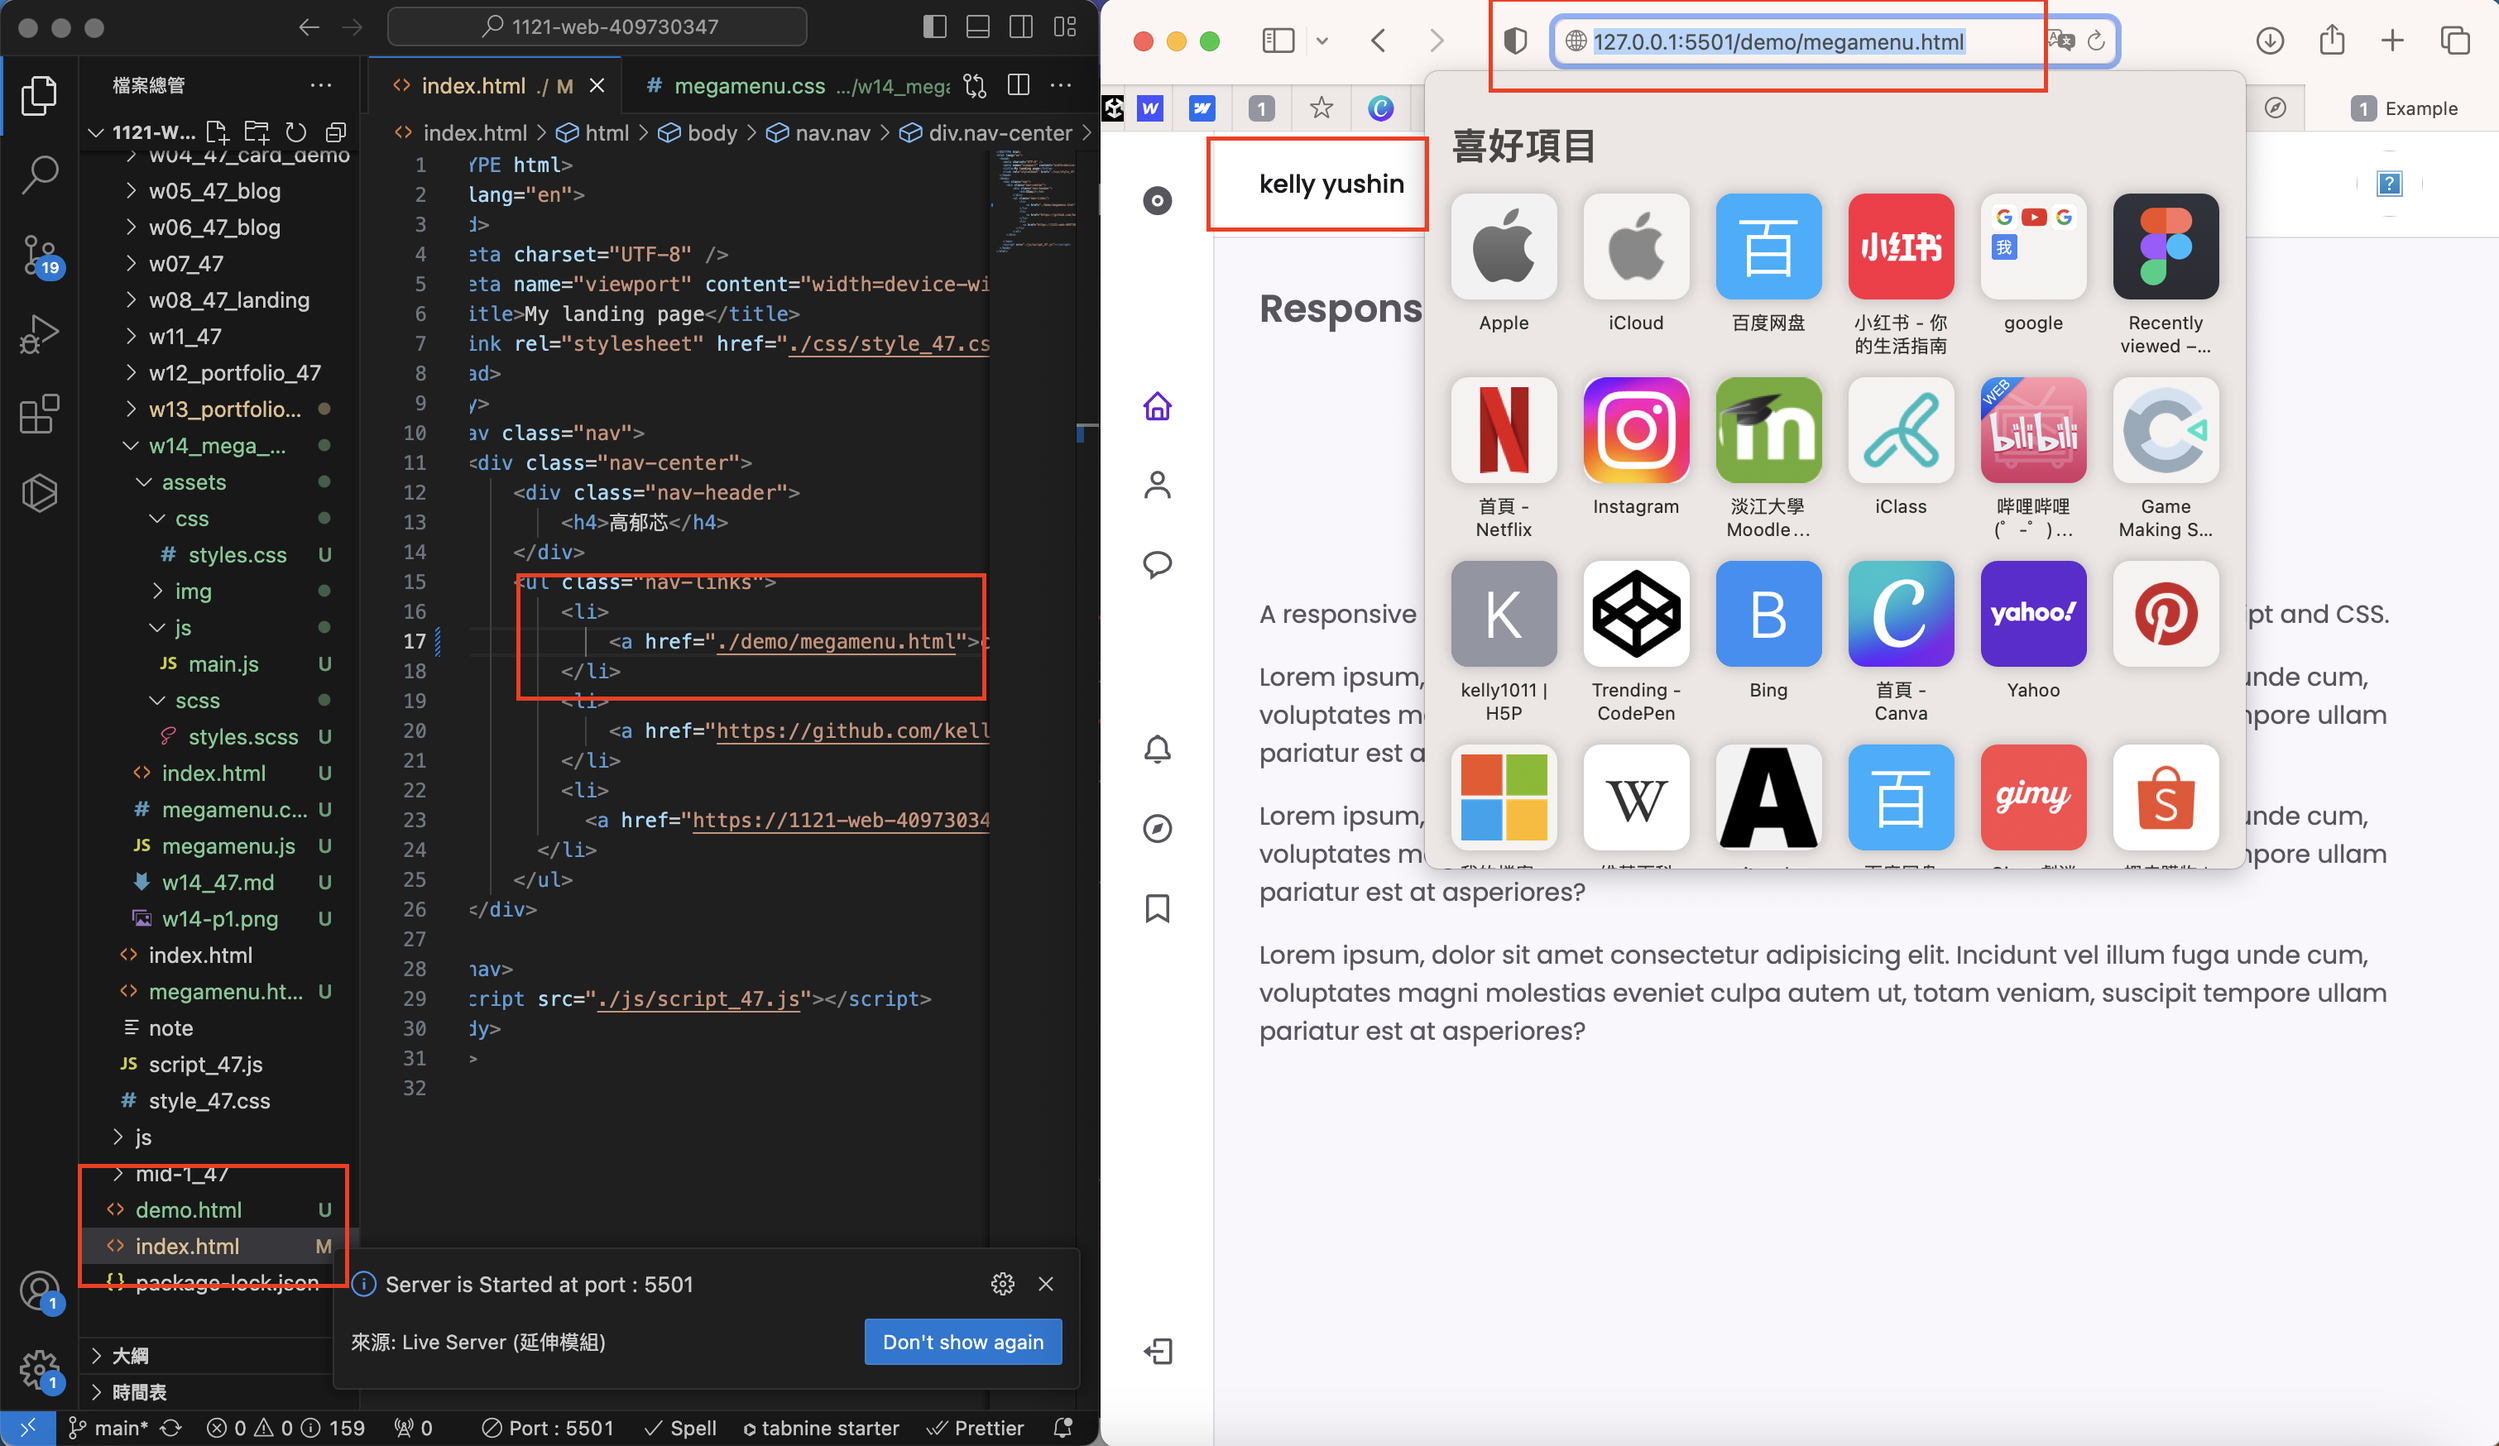
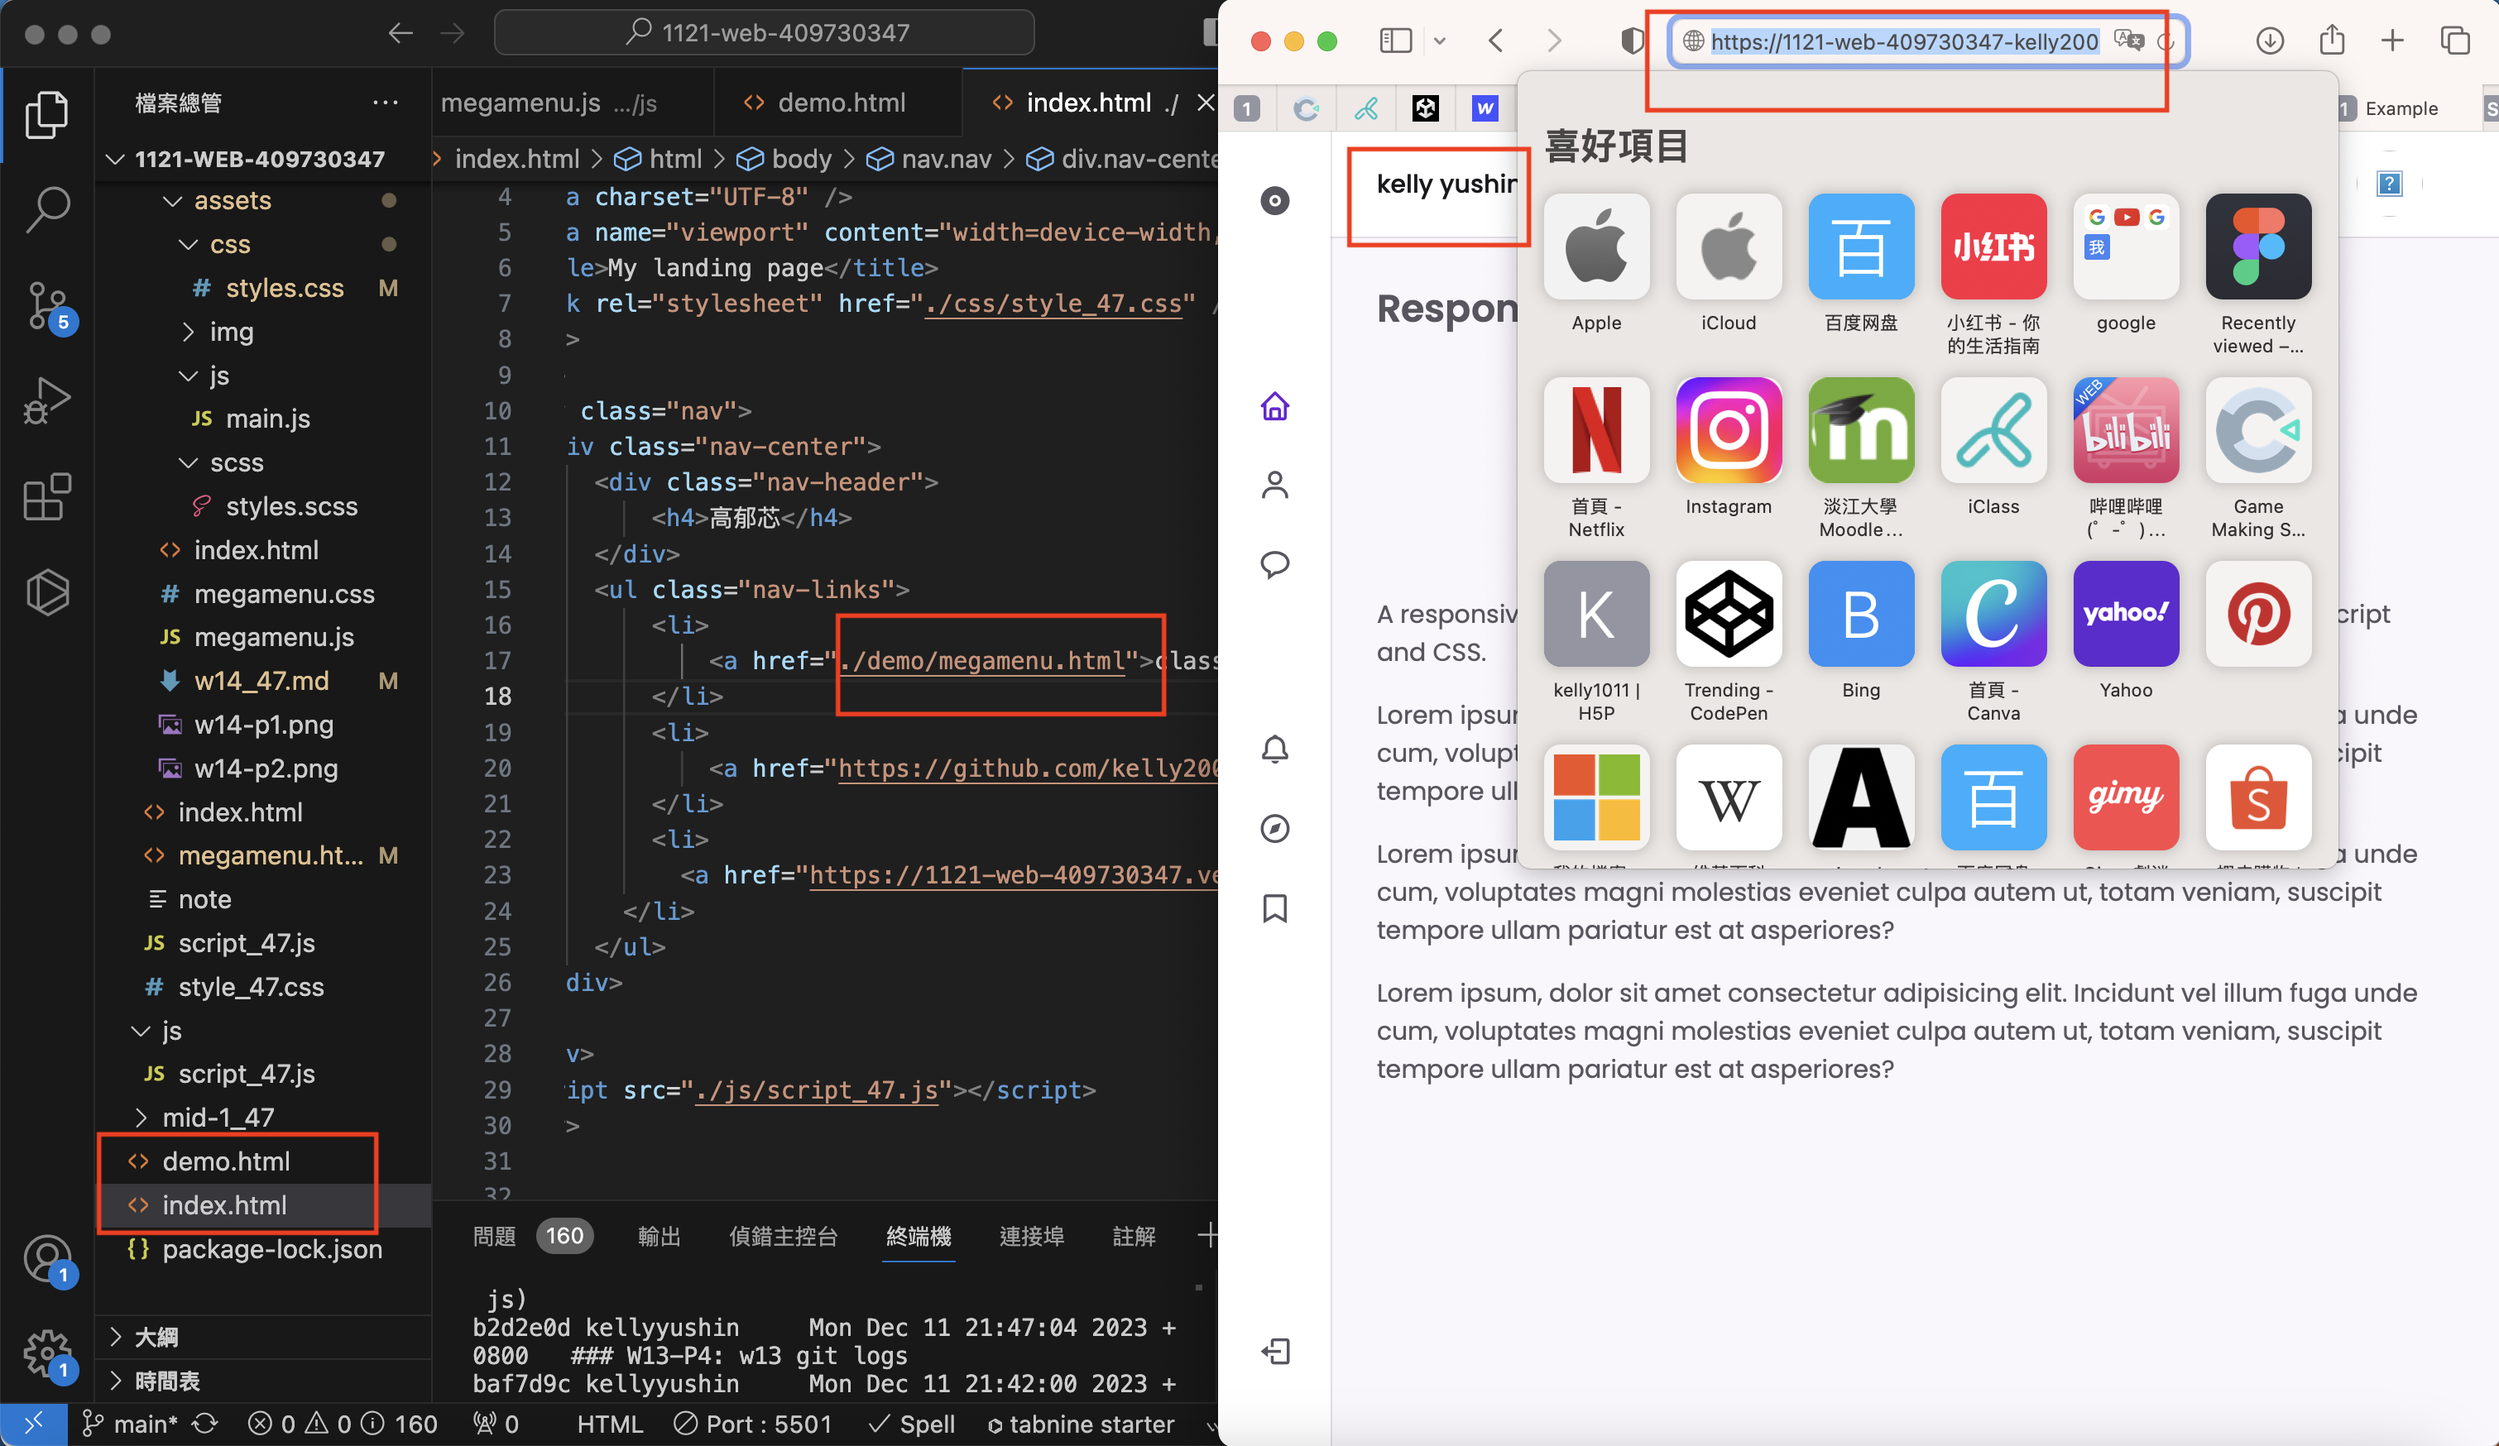
### W14-P2: Change class demo to megamenu.html

diff --git a/demo/megamenu.html b/demo/megamenu.html
@@ -25,6 +25,14 @@
                     <i class='bx bx-search header__icon'></i>
                 </div>
 
+                <div class="header__links">
+                    <p>links1</p>
+                    <p>links2</p>
+                    <p>links3</p>
+
+
+                </div>
+
                 <div class="header__toggle">
                     <i class='bx bx-menu' id="header-toggle"></i>
                 </div>

diff --git a/demo/w14_mega_menue_47/assets/css/styles.css b/demo/w14_mega_menue_47/assets/css/styles.css
@@ -94,6 +94,11 @@ img {
   font-weight: var(--font-medium);
   display: none;
 }
+.header__links {
+  display: flex;
+  /* padding: 20px; */
+  gap: 10px;
+}
 
 .header__search {
   display: flex;

diff --git a/demo/w14_mega_menue_47/w14_47.md b/demo/w14_mega_menue_47/w14_47.md
@@ -11,7 +11,7 @@
 ![](w14-p2.png)
  
 ```
-5c5e4a0 kellyyushin     Mon Dec 11 21:08:40 2023 +0800   ### W13-P2: Show hero section with photo displayed
+1d90888 kellyyushin     Wed Dec 13 16:00:21 2023 +0800  ### W14-P2: Change class demo to megamenu.html
 ```
 ### W14-P3: Make class demo works on local and Vercel 
 ##### => local
